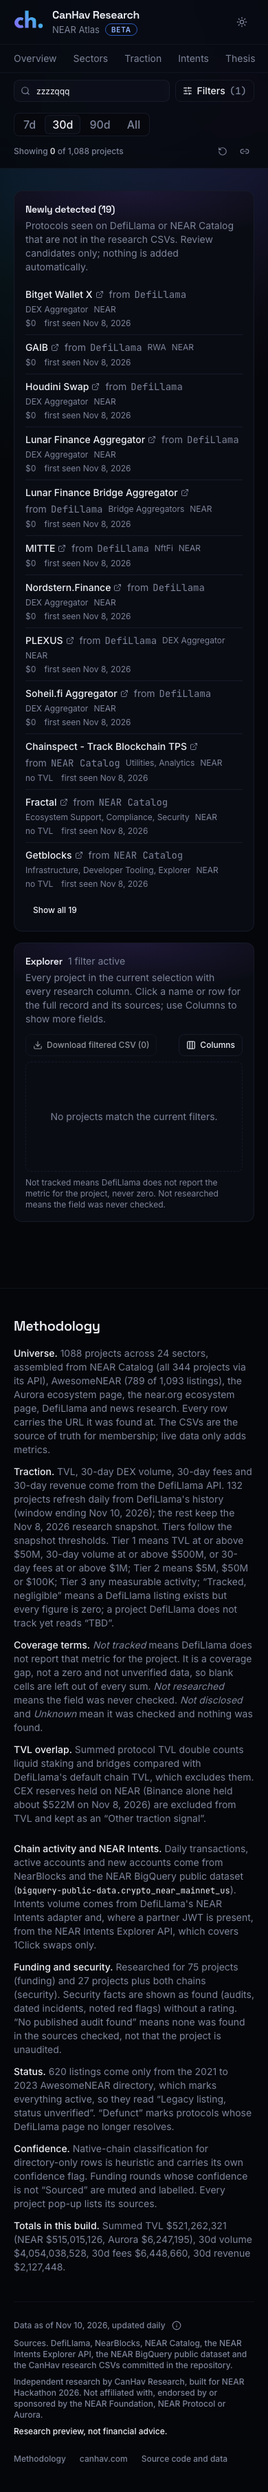
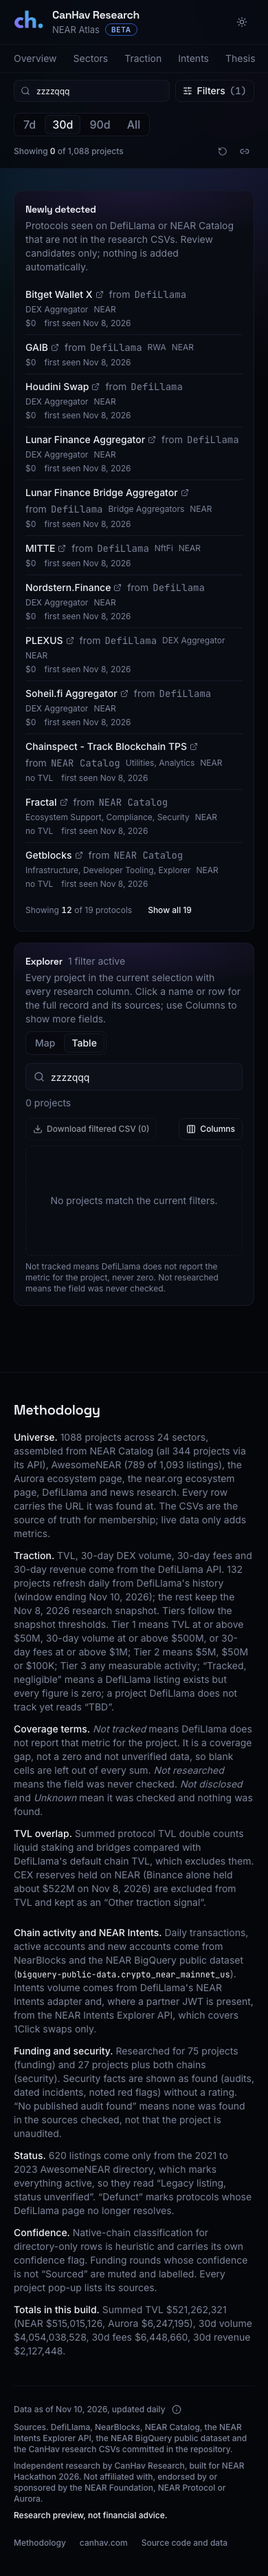
Third pass notes, README and screenshots

diff --git a/docs/UI-PASS.md b/docs/UI-PASS.md
@@ -112,3 +112,79 @@ Hidden tabs, the stocks page and its keys (`pr`, `wr`, `dr`), share-of-chain bar
 ## Verification
 
 Per commit: `npm run check:copy`, `npm run lint`, `npm run typecheck`, `npm test` (144 tests), and `npm run e2e` (153 checks at desktop and phone widths, dark and light, wall off, zero console errors and no horizontal overflow). `npm run e2e:wall` (38 checks) covers the logged-out wall on a build that treats every reader as logged out. `npm run e2e:auth` repeats those against a Clerk development instance and adds the signed-in checks; it needs the development keys and skips without them.
+
+# Third pass, 2026-11-11: the rest of the amended standard
+
+The second pass listed six parts of the amended standard as not adopted. This pass adopts four of them: the funding-type pop-up, the Explorer map view, tables-of-records counts and the timeline's table-first view with an event pop-up. The per-card time range and the five-column leaderboard are still open and wait on the owner (see "Per-card time range, blast radius" below). Nothing under `data/`, `queries/` or `THESIS.md` changed. The visible text of Thesis, Intents, Security, Sectors, Traction and Compare is identical before and after; Explorer, Funding and Investors differ only by the lines named in the table below; Overview differs only inside the Timeline card.
+
+## What changed
+
+| Area | Change |
+|---|---|
+| Funding type | A bar or a legend entry of the funding type chart opens that type in the shared modal (`?fundingType=<type>`, `src/components/drawer/funding-type-modal.tsx`) instead of filtering the page. It lists the projects the bar counts and the rounds recorded for them, follows the active filters like the chart, and offers "Filter the atlas to this type" as its own action. "Other" can now be opened and filtered too. |
+| Explorer | A Map and Table switch under `?view=` (`table` is the default, `map` is the sector treemap of the same selection with its zoom, sharing the `tm` and `tmSector` keys with the Overview chart). A wide search box that writes the same `q` as the filter bar, with `/` to focus and a project count beside it. |
+| Tables of records | "Funding rounds", "Investors" and "Newly detected" carry no count in the title. Each has its own line, "Showing 42 of 42 rounds", which follows the table's own filter (`ShowingLine` in `src/components/explorer/data-table.tsx`). The funding type pop-up's tables use the same line. |
+| Timeline | The card opens on its table (Date, Type, Event, Projects, Amount). A row or a chart marker opens the event pop-up (`?event=<id>`, `src/components/drawer/event-modal.tsx`) with the amount, what it measures, the detail and the source. The same pop-up opens from an Ecosystem capital card's title and from a project's Events list. The CSV carries every field, the detail included. |
+| Access | `funding-detail` joins the gated actions in `src/lib/gate.ts`. Logged out, a shared funding type link shows the title and the summary line, then one login panel. The event pop-up is open to everyone, because the timeline is on the public Overview. |
+| Analytics | No new event. `funding` joins the login triggers, so a sign-up that starts at the funding type panel is attributed. |
+
+## Differences from the Robinhood atlas kept on purpose
+
+- **The Explorer opens on its table.** Robinhood opens on the map. One default in `src/lib/filters.ts` switches it.
+- **A project sits under each of its funding types.** The NEAR chart counts "VC-backed; Token-funded" in both bars, so the pop-up lists it under both and says so. Robinhood counts a project once, by its first type. The pop-up has no per-type definitions and no top backers list.
+- **The funding type pop-up shows a summary when logged out.** Robinhood does not mount it for a logged-out reader. Here it behaves like the sector and investor pop-ups.
+- **The timeline table keeps its Amount column.** The standard asks for four columns with the amount one click away. The amount was on the page before, so it stays as a fifth column; what the amount measures, the detail and the source moved to the pop-up and the CSV.
+- **Every recorded source link is still offered.** The direct-sources rule is not applied (next section).
+- **A project's Events keep their source link** next to the title, which now opens the event pop-up over the project pop-up. Closing it returns to the project.
+- **Pop-up section headings keep their counts** ("Portfolio (n)", "Rounds (n)", "All other projects (n)"). They head short lists inside a pop-up, not tables of records.
+
+## The direct-sources rule, not applied
+
+Robinhood's `isDirectSource` (a link must have a path; on X only a single post counts) was run against the built data without changing anything.
+
+| Links | Recorded | Would be hidden |
+|---|---|---|
+| Event sources | 141 of 141 events | 1 |
+| Round sources | 42 of 42 rounds | 1 |
+| Project security sources | 31 | 0 |
+| Project discovery sources | 1,088 | 5 |
+| Project funding sources | 78 cells | 16 |
+
+The one event and the one round are the same link, `coinchapter.com/?p=140167`, which is an article; the rule fails it only because the address has no path. The five discovery sources are project home pages. Of the sixteen funding source cells, one is that same article link and fifteen are not links at all (fourteen read "N/A", one has a note after the address); all but two of the fifteen belong to projects whose funding is Not disclosed. The project pop-up still renders those cells as links today; the new funding type pop-up shows "none" for them. Applying the rule, and cleaning the "N/A" cells, is the owner's call.
+
+## Parts of the amended standard still not adopted
+
+- **Per-card time range** and, with it, the level series' 90-day floor. Not started; the blast radius is below.
+- **The five-column leaderboard.** The Traction leaderboard keeps its four column sets, because Activity is NEAR BigQuery data with no other home.
+- **Record-table toolbars** (search, facets with counts and Reset under their own URL keys, as Robinhood's backers table has). The rounds table has 42 rows and one checkbox, the investors table 67 rows.
+- **The direct-sources rule**, as above.
+
+## Per-card time range, blast radius
+
+Today `range` is one URL key (default `30d`), set in the filter bar and carried from page to page with `compare`, `scale` and `legacy`. Moving it onto each card touches these places.
+
+| Card | Page | Reads `range` for | Standard key |
+|---|---|---|---|
+| Chain over time | Overview | The window of four panels, the change in the summary, the stats line, the CSV name | `cr` |
+| Chain activity | Overview | The window, the change in the summary, the CSV name | `ar` |
+| Risers and fallers | Overview | Which change (7, 30 or 90 days) ranks the lists, and the spark window | `mr` |
+| Leaderboard | Traction | The Trend column in the Traction and Momentum column sets | none, needs one (`lr`) |
+| History | Project pop-up | The window of the history chart | `hr` |
+| Trend overlay | Compare | The window of the indexed overlay; the compare tray link also carries `range` | `xr` |
+| Daily volume | Intents | The window, the summary, the CSV name | none, needs one |
+| Status rates | Intents | The window, the CSV name | none, needs one |
+
+Also touched: the filter bar (the range control leaves it), `CARRIED_PARAMS` and the nav links, `compareHref`, `src/lib/filters.ts`, the chart card (a range slot in its actions), one page check that loads `?range=30d`, the README and the screenshots. About twenty source files and eight new URL keys, three of them NEAR-only.
+
+Three decisions are the owner's, because each can move a figure or break a link.
+
+1. **The 90-day floor.** The standard has every panel follow its card's range, so TVL at 30d would show 30 days. Today NEAR shows at least 90 days for a level series, and the line under the chart ("Low, high, change over 90 days") is computed over that window. Dropping the floor changes that line on Overview and in every project pop-up. Keeping it is a deliberate difference and moves nothing.
+2. **"All" on comparison cards.** The standard drops All from a card that is a fixed 7, 30 or 90 day comparison. Risers and fallers at All shows the 90-day change today; the option would go.
+3. **Old links.** A shared link with `?range=90d` would open every card at 30d unless each card falls back to the old key when its own is absent.
+
+With the floor kept, All kept where it exists and the fallback in place, no figure changes at the default view and the work is mechanical. The Activity column set does not read `range` and is not affected either way.
+
+## Verification
+
+Per commit: `npm run check:copy`, `npm run lint`, `npm run typecheck`, `npm test` (147 tests), `npm run e2e` (188 checks at desktop and phone widths, dark and light, wall off; 185 run and 3 are the analytics check skipping its repeat on three of the four projects) and `npm run e2e:wall` (38 checks). `git diff --stat origin/main -- data queries THESIS.md` is empty. The visible text of thirteen pages and pop-ups was saved from a build of the branch before this pass and again after it and compared line by line. `npm run e2e:auth` still needs the Clerk development keys and was not run.
+

diff --git a/README.md b/README.md
@@ -36,18 +36,18 @@ npm start            # open http://localhost:3000
 
 | Page | What it shows |
 |---|---|
-| `/` Overview | KPI tiles, chain over time (NEAR and Aurora), chain activity, risers and fallers, sector treemap, native vs imported, concentration curve, live insights and analyst notes, events timeline |
+| `/` Overview | KPI tiles, chain over time (NEAR and Aurora), chain activity, risers and fallers, sector treemap, native vs imported, concentration curve, live insights and analyst notes, events timeline (table first, each event in a pop-up with its source) |
 | `/sectors` | Sector bars, tier by sector, sector cards with ranked leaders |
 | `/traction` | Leaderboard with traction, momentum, activity and financials column sets, business-model scatter, activity without TVL, listed vs live by discovery source |
 | `/intents` | 1Click swap volume, weekly series, success and refund rates, routes, assets, referrals, coverage against DefiLlama |
 | `/thesis` | The claim, verdict and four tests with Chart, Table and Query tabs, confounders, evidence for and against, what would change the conclusion |
-| `/funding` | Funding type breakdown, ecosystem money cards, rounds table, rounds over time, financials |
+| `/funding` | Funding type breakdown (a type opens its projects and rounds in a pop-up), ecosystem money cards, rounds table, rounds over time, financials |
 | `/investors` | Investors by deals, portfolios, investor pop-up |
 | `/security` | Chain-level checklist for NEAR L1, NEAR Intents and Aurora, security facts by type and by sector (no per-project ratings), incidents as a sortable table |
-| `/explorer` | Every column with a column chooser and CSV download of the filtered view, plus the "Newly detected" review list |
+| `/explorer` | Every column with a column chooser and CSV download of the filtered view, a Map and Table switch (`?view=map` is the sector treemap of the same selection) and its own search box, plus the "Newly detected" review list |
 | `/compare` | Up to four projects: metric matrix with sector ranks, ratios, indexed overlay, side-by-side profiles |
 
-Every chart has an info icon naming its source, an empty state, a table view and an Expand button that opens it larger with a range brush and its computed summary as points (Thesis and Intents keep the summary on the card); the thesis and chain-activity charts also have a Query tab. Filters, the date range, each chart's own metric, the compare selection, the open project, sector or investor pop-up and the expanded chart (`?expand=<id>`) live in the URL, so any view can be shared.
+Every chart has an info icon naming its source, an empty state, a table view and an Expand button that opens it larger with a range brush and its computed summary as points (Thesis and Intents keep the summary on the card); the thesis and chain-activity charts also have a Query tab. Filters, the date range, each chart's own metric, the compare selection, the open project, sector, investor, funding type (`?fundingType=`) or event (`?event=`) pop-up and the expanded chart (`?expand=<id>`) live in the URL, so any view can be shared.
 
 ## Data
 
